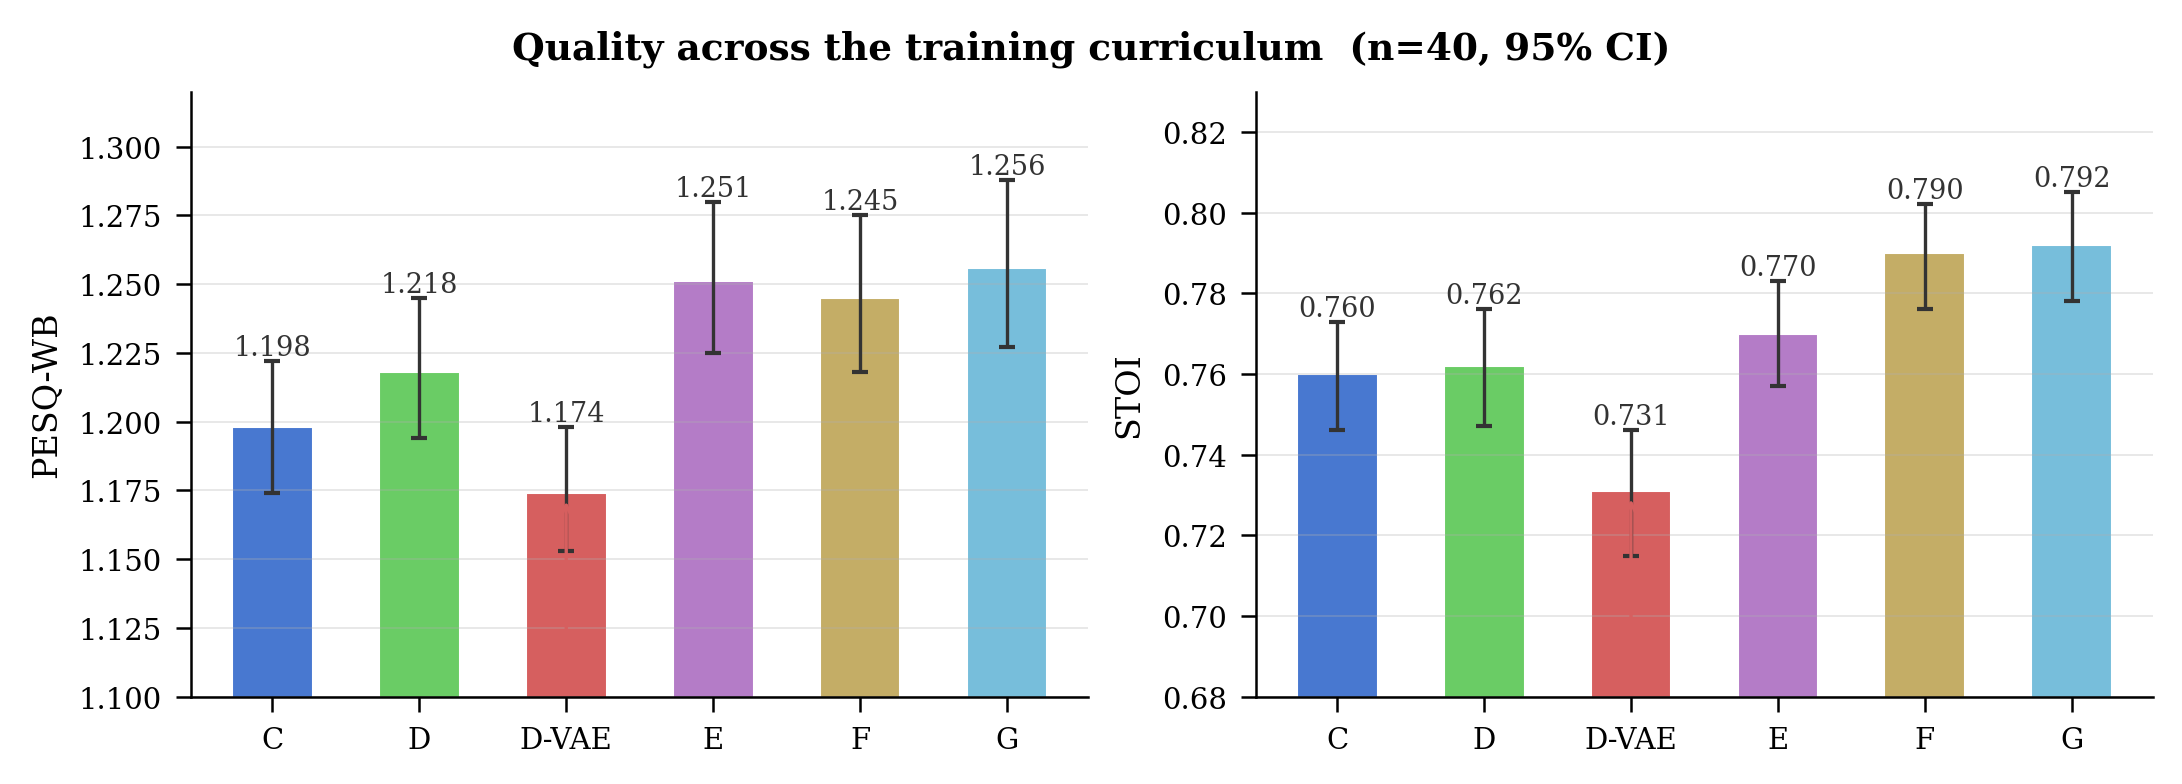
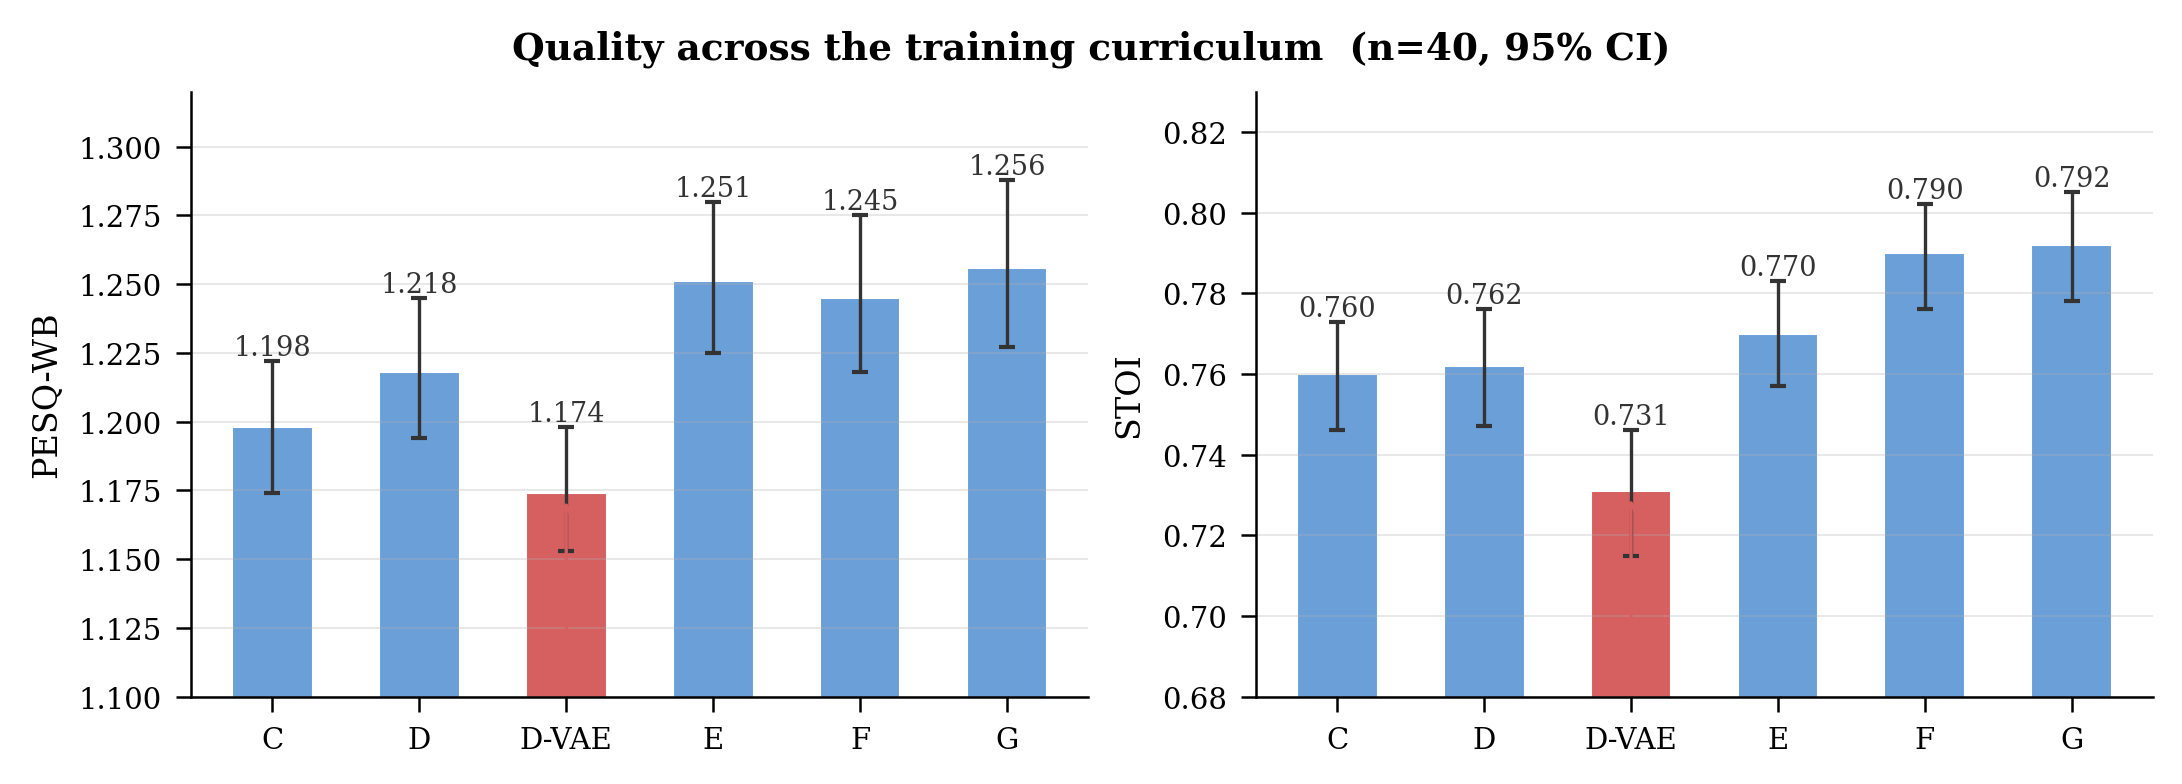
feat: update color scheme for phases in multiple figures to enhance clarity

diff --git a/scripts/figures/plots.py b/scripts/figures/plots.py
@@ -33,7 +33,11 @@ def fig_01_phase_progression(data: dict) -> plt.Figure:
     stoi  = [ci[p]['stoi']    for p in phases]
     s_lo  = [ci[p]['stoi'] - ci[p]['stoi_lo'] for p in phases]
     s_hi  = [ci[p]['stoi_hi'] - ci[p]['stoi'] for p in phases]
-    colors = [style.PHASE_COLORS[p] for p in phases]
+    # C/D/E/F/G all trend the same way through the curriculum — only D-VAE
+    # breaks the pattern, so it's the only phase that needs its own color.
+    # A neutral blue (not gray) — gray reads as "disabled/discarded", which
+    # is the wrong message for phases that are all valid, expected results.
+    colors = [style.PHASE_COLORS['D-VAE'] if p == 'D-VAE' else '#6a9fd8' for p in phases]
 
     fig, (ax1, ax2) = plt.subplots(1, 2, figsize=(style.COL2_W, style.ROW_H))
     x = np.arange(len(phases))
@@ -247,7 +251,11 @@ def fig_06_compression(data: dict) -> plt.Figure:
     phases = [p for p in ['C', 'D', 'D-VAE', 'E', 'F', 'G'] if p in comp]
     ratios  = [comp[p]['ratio']    for p in phases]
     kbps    = [comp[p]['eff_kbps'] for p in phases]
-    colors  = [style.PHASE_COLORS[p] for p in phases]
+    # C/D/E/F/G all sit close together — only D-VAE breaks the pattern,
+    # so it's the only phase that needs its own color. A neutral blue,
+    # not gray — gray reads as "disabled/discarded", the wrong message
+    # for phases that are all valid, expected results.
+    colors  = [style.PHASE_COLORS['D-VAE'] if p == 'D-VAE' else '#6a9fd8' for p in phases]
 
     fig, (ax1, ax2) = plt.subplots(1, 2, figsize=(style.COL2_W, style.ROW_H))
     x = np.arange(len(phases))
@@ -646,7 +654,11 @@ def fig_19_music_eval(data: dict) -> plt.Figure:
     grp    = music.groupby('phase')
     si_sdr = grp['si_sdr'].mean().reindex(phase_order)
     ratio  = grp['zlib_ratio'].mean().reindex(phase_order)
-    colors = [style.PHASE_COLORS.get(p, '#888888') for p in phase_order]
+    # C/D/G all sit close together — only D-VAE breaks the pattern, so
+    # it's the only phase that needs its own color. A neutral blue, not
+    # gray — gray reads as "disabled/discarded", the wrong message for
+    # phases that are all valid, expected results.
+    colors = [style.PHASE_COLORS['D-VAE'] if p == 'D-VAE' else '#6a9fd8' for p in phase_order]
 
     fig, (ax1, ax2) = plt.subplots(1, 2, figsize=(style.COL2_W, style.ROW_H),
                                    constrained_layout=True)
@@ -819,7 +831,11 @@ def fig_23_vctk_generalization(data: dict) -> plt.Figure:
     vctk = data['vctk']
     comp, qual, wilcoxon = vctk['compression'], vctk['quality'], vctk['wilcoxon']
     phases = [p for p in ['C', 'D', 'D-VAE', 'G'] if p in comp]
-    colors = [style.PHASE_COLORS[p] for p in phases]
+    # C/D/G all sit close together — only D-VAE breaks the pattern, so
+    # it's the only phase that needs its own color. A neutral blue, not
+    # gray — gray reads as "disabled/discarded", the wrong message for
+    # phases that are all valid, expected results.
+    colors = [style.PHASE_COLORS['D-VAE'] if p == 'D-VAE' else '#6a9fd8' for p in phases]
 
     ratios = [comp[p]['ratio'] for p in phases]
     r_lo = [comp[p]['ratio'] - comp[p]['ratio_lo'] for p in phases]
